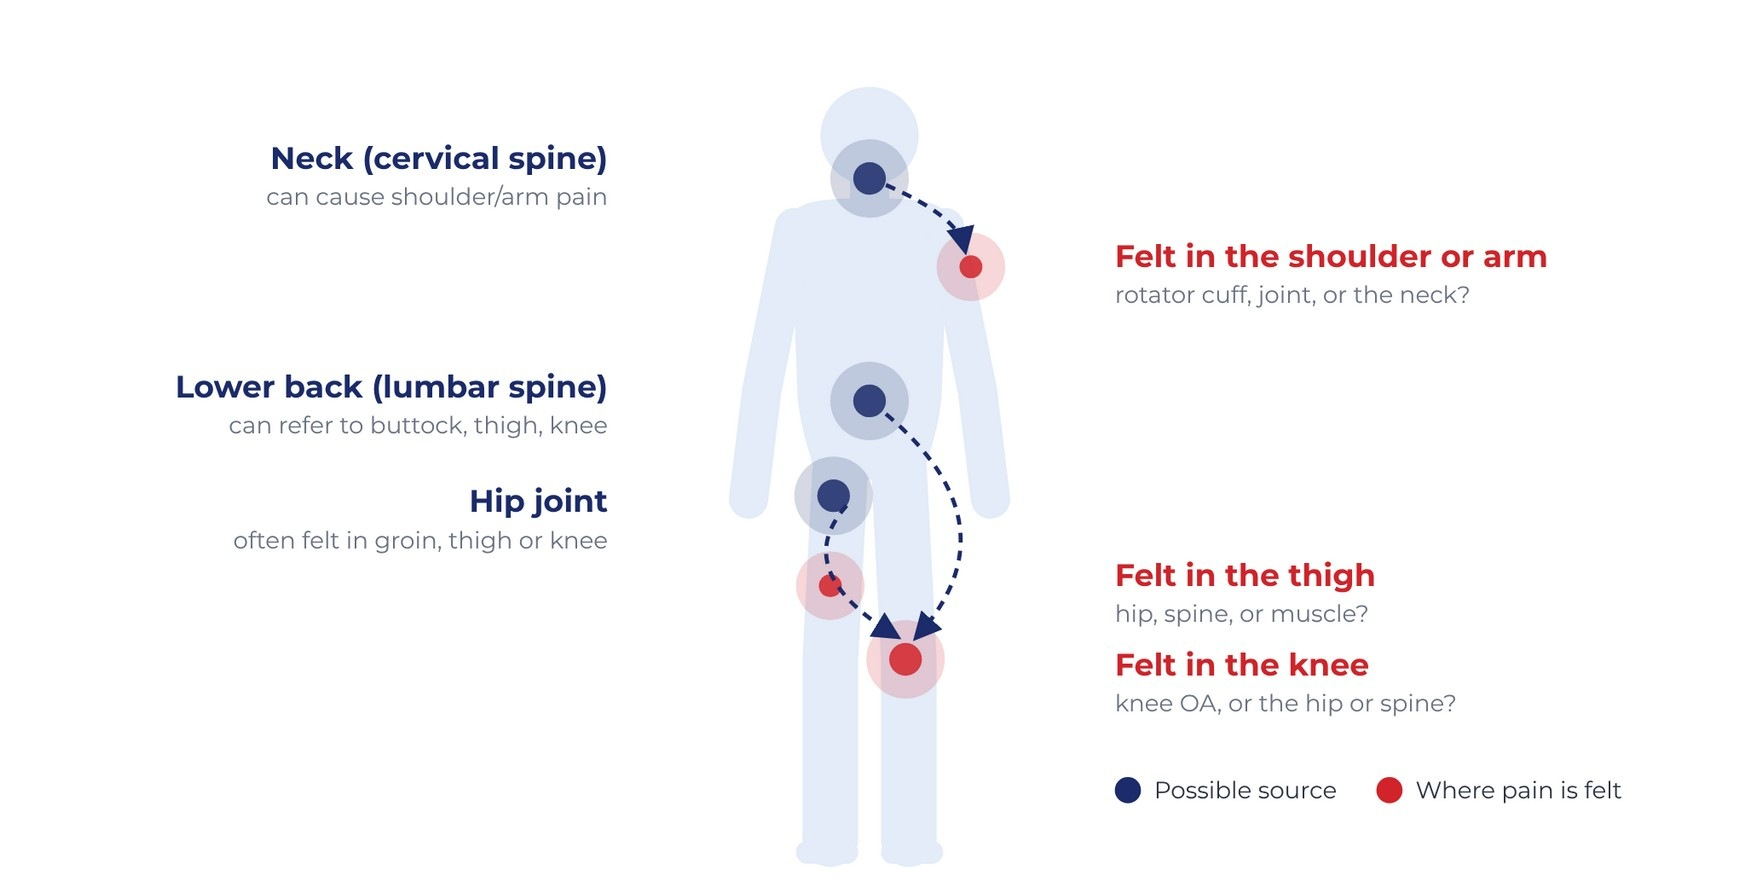
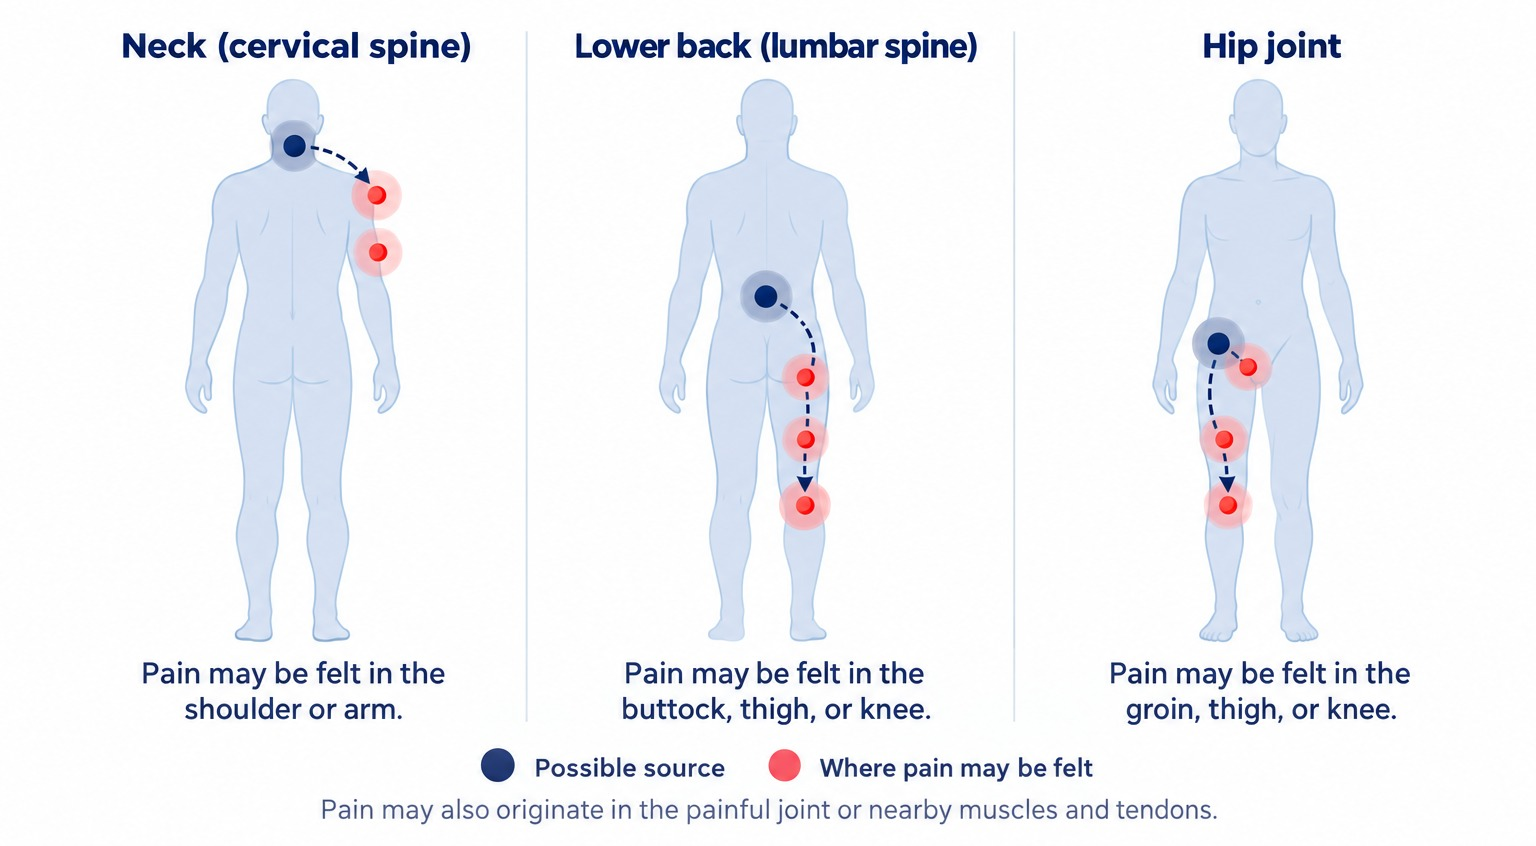
Flip J05a: new referred-pain illustration
Claude-Session: https://claude.ai/code/session_011FeJdRfmDCgTZcMtNMgwbg

Changed region(s): [[0.2188, 0.0307, 0.9375, 0.9835], [0.0625, 0.0307, 0.375, 0.8605]]

diff --git a/js/templates.js b/js/templates.js
@@ -667,7 +667,7 @@ window.AJPVC_TEMPLATES = [
     "label": "J05a · Where Pain Starts Isn’t Always Where It Hurts (patient side)",
     "w": 1056,
     "h": 816,
-    "html": "<div style=\"width: 1056px; height: 816px; box-sizing: border-box; background: #FFFEFB; color: #1B2440; font-family: 'Public Sans', sans-serif; display: flex; flex-direction: column; padding: 34px 44px 26px; gap: 20px\">\n<div style=\"display: flex; justify-content: space-between; align-items: flex-end; gap: 24px; border-bottom: 5px solid #C8231E; padding-bottom: 14px\">\n<div style=\"display: flex; flex-direction: column; gap: 4px\"><p style=\"margin: 0; font-family: 'Montserrat', sans-serif; font-weight: 700; font-size: 15px; letter-spacing: 3px; text-transform: uppercase; color: #C8231E\">Joint pain</p>\n<h1 style=\"margin: 0; font-family: 'Montserrat', sans-serif; font-weight: 800; font-size: 44px; line-height: 1.05; color: #16306E\">Where Pain Starts Isn’t Always Where It Hurts</h1></div>\n<div style=\"display: flex; align-items: center; gap: 14px\"><img src=\"assets/logo-hvlc.png\" alt=\"Heart Vascular &amp; Leg Center logo\" style=\"height: 34px; width: 78px; object-fit: contain; object-position: left center\"><span style=\"width: 1px; height: 27px; background: #E2DED4\"></span><img src=\"assets/logo-long-nodivision.png\" alt=\"Advanced Joint Pain &amp; Vascular Center logo\" style=\"height: 34px; width: 129px; object-fit: contain; object-position: left center\"></div></div>\n<main style=\"flex: 1; min-height: 0; display: flex; flex-direction: column; gap: 16px\"><div style=\"flex: 1; min-height: 0; display: flex; flex-direction: column; gap: 10px\"><div style=\"flex: 1; min-height: 0; min-width: 0; background: #FFFFFF; border-radius: 18px; overflow: hidden; display: flex\"><img src=\"assets/book-referred.jpg\" alt=\"Body outline showing pain that starts in the neck, lower back or hip and is felt in the shoulder, thigh or knee\" style=\"width: 100%; height: 100%; object-fit: contain; object-position: 50% 50%; display: block\"></div></div><div style=\"display: flex; gap: 24px\"><div style=\"flex: 1; min-width: 0; display: flex; gap: 12px; align-items: flex-start; border-top: 4px solid #C8231E; padding-top: 12px\"><p style=\"margin: 0; font-size: 22px; line-height: 1.32; color: #1B2440\">Hip or back problems can cause pain felt in the knee.</p></div><div style=\"flex: 1; min-width: 0; display: flex; gap: 12px; align-items: flex-start; border-top: 4px solid #C8231E; padding-top: 12px\"><p style=\"margin: 0; font-size: 22px; line-height: 1.32; color: #1B2440\">Finding the true source helps pick the right treatment.</p></div><div style=\"flex: 1; min-width: 0; display: flex; gap: 12px; align-items: flex-start; border-top: 4px solid #C8231E; padding-top: 12px\"><p style=\"margin: 0; font-size: 22px; line-height: 1.32; color: #1B2440\">Tell us about numbness, tingling, or pain in other areas.</p></div></div></main></div>"
+    "html": "<div style=\"width: 1056px; height: 816px; box-sizing: border-box; background: #FFFEFB; color: #1B2440; font-family: 'Public Sans', sans-serif; display: flex; flex-direction: column; padding: 34px 44px 26px; gap: 20px\">\n<div style=\"display: flex; justify-content: space-between; align-items: flex-end; gap: 24px; border-bottom: 5px solid #C8231E; padding-bottom: 14px\">\n<div style=\"display: flex; flex-direction: column; gap: 4px\"><p style=\"margin: 0; font-family: 'Montserrat', sans-serif; font-weight: 700; font-size: 15px; letter-spacing: 3px; text-transform: uppercase; color: #C8231E\">Joint pain</p>\n<h1 style=\"margin: 0; font-family: 'Montserrat', sans-serif; font-weight: 800; font-size: 44px; line-height: 1.05; color: #16306E\">Where Pain Starts Isn’t Always Where It Hurts</h1></div>\n<div style=\"display: flex; align-items: center; gap: 14px\"><img src=\"assets/logo-hvlc.png\" alt=\"Heart Vascular &amp; Leg Center logo\" style=\"height: 34px; width: 78px; object-fit: contain; object-position: left center\"><span style=\"width: 1px; height: 27px; background: #E2DED4\"></span><img src=\"assets/logo-long-nodivision.png\" alt=\"Advanced Joint Pain &amp; Vascular Center logo\" style=\"height: 34px; width: 129px; object-fit: contain; object-position: left center\"></div></div>\n<main style=\"flex: 1; min-height: 0; display: flex; flex-direction: column; gap: 16px\"><div style=\"flex: 1; min-height: 0; display: flex; flex-direction: column; gap: 10px\"><div style=\"flex: 1; min-height: 0; min-width: 0; background: #FFFFFF; border-radius: 18px; overflow: hidden; display: flex\"><img src=\"assets/book-referred.jpg\" alt=\"Three body outlines showing pain that starts in the neck and is felt in the shoulder or arm, starts in the lower back and is felt in the buttock, thigh or knee, and starts in the hip and is felt in the groin, thigh or knee\" style=\"width: 100%; height: 100%; object-fit: contain; object-position: 50% 50%; display: block\"></div></div><div style=\"display: flex; gap: 24px\"><div style=\"flex: 1; min-width: 0; display: flex; gap: 12px; align-items: flex-start; border-top: 4px solid #C8231E; padding-top: 12px\"><p style=\"margin: 0; font-size: 22px; line-height: 1.32; color: #1B2440\">Hip or back problems can cause pain felt in the knee.</p></div><div style=\"flex: 1; min-width: 0; display: flex; gap: 12px; align-items: flex-start; border-top: 4px solid #C8231E; padding-top: 12px\"><p style=\"margin: 0; font-size: 22px; line-height: 1.32; color: #1B2440\">Finding the true source helps pick the right treatment.</p></div><div style=\"flex: 1; min-width: 0; display: flex; gap: 12px; align-items: flex-start; border-top: 4px solid #C8231E; padding-top: 12px\"><p style=\"margin: 0; font-size: 22px; line-height: 1.32; color: #1B2440\">Tell us about numbness, tingling, or pain in other areas.</p></div></div></main></div>"
    },
    {
     "label": "J05b · Where Pain Starts Isn’t Always Where It Hurts (provider side)",

diff --git a/source/FlipJ05Referred.dc.html b/source/FlipJ05Referred.dc.html
@@ -18,7 +18,7 @@ body{margin:0}
 <div style="display: flex; flex-direction: column; gap: 4px"><p style="margin: 0; font-family: 'Montserrat', sans-serif; font-weight: 700; font-size: 15px; letter-spacing: 3px; text-transform: uppercase; color: #C8231E">Joint pain</p>
 <h1 style="margin: 0; font-family: 'Montserrat', sans-serif; font-weight: 800; font-size: 44px; line-height: 1.05; color: #16306E">Where Pain Starts Isn’t Always Where It Hurts</h1></div>
 <div style="display: flex; align-items: center; gap: 14px"><img src="/_blob/1e4ce51a5c3cb793b6317890e43e495e" alt="Heart Vascular &amp; Leg Center logo" style="height: 34px; width: 78px; object-fit: contain; object-position: left center"><span style="width: 1px; height: 27px; background: #E2DED4"></span><img src="/_blob/48c0202744b17fe1f033a36586de7a92" alt="Advanced Joint Pain &amp; Vascular Center logo" style="height: 34px; width: 129px; object-fit: contain; object-position: left center"></div></div>
-<main style="flex: 1; min-height: 0; display: flex; flex-direction: column; gap: 16px"><div style="flex: 1; min-height: 0; display: flex; flex-direction: column; gap: 10px"><div style="flex: 1; min-height: 0; min-width: 0; background: #FFFFFF; border-radius: 18px; overflow: hidden; display: flex"><img src="/_blob/ad2c2735b71d917b6ae5cc0d8fa22ba3" alt="Body outline showing pain that starts in the neck, lower back or hip and is felt in the shoulder, thigh or knee" style="width: 100%; height: 100%; object-fit: contain; object-position: 50% 50%; display: block"></div></div><div style="display: flex; gap: 24px"><div style="flex: 1; min-width: 0; display: flex; gap: 12px; align-items: flex-start; border-top: 4px solid #C8231E; padding-top: 12px"><p style="margin: 0; font-size: 22px; line-height: 1.32; color: #1B2440">Hip or back problems can cause pain felt in the knee.</p></div><div style="flex: 1; min-width: 0; display: flex; gap: 12px; align-items: flex-start; border-top: 4px solid #C8231E; padding-top: 12px"><p style="margin: 0; font-size: 22px; line-height: 1.32; color: #1B2440">Finding the true source helps pick the right treatment.</p></div><div style="flex: 1; min-width: 0; display: flex; gap: 12px; align-items: flex-start; border-top: 4px solid #C8231E; padding-top: 12px"><p style="margin: 0; font-size: 22px; line-height: 1.32; color: #1B2440">Tell us about numbness, tingling, or pain in other areas.</p></div></div></main></div>
+<main style="flex: 1; min-height: 0; display: flex; flex-direction: column; gap: 16px"><div style="flex: 1; min-height: 0; display: flex; flex-direction: column; gap: 10px"><div style="flex: 1; min-height: 0; min-width: 0; background: #FFFFFF; border-radius: 18px; overflow: hidden; display: flex"><img src="/_blob/d454a76d4cf93f7fc40e7a0d2760cd78" alt="Three body outlines showing pain that starts in the neck and is felt in the shoulder or arm, starts in the lower back and is felt in the buttock, thigh or knee, and starts in the hip and is felt in the groin, thigh or knee" style="width: 100%; height: 100%; object-fit: contain; object-position: 50% 50%; display: block"></div></div><div style="display: flex; gap: 24px"><div style="flex: 1; min-width: 0; display: flex; gap: 12px; align-items: flex-start; border-top: 4px solid #C8231E; padding-top: 12px"><p style="margin: 0; font-size: 22px; line-height: 1.32; color: #1B2440">Hip or back problems can cause pain felt in the knee.</p></div><div style="flex: 1; min-width: 0; display: flex; gap: 12px; align-items: flex-start; border-top: 4px solid #C8231E; padding-top: 12px"><p style="margin: 0; font-size: 22px; line-height: 1.32; color: #1B2440">Finding the true source helps pick the right treatment.</p></div><div style="flex: 1; min-width: 0; display: flex; gap: 12px; align-items: flex-start; border-top: 4px solid #C8231E; padding-top: 12px"><p style="margin: 0; font-size: 22px; line-height: 1.32; color: #1B2440">Tell us about numbness, tingling, or pain in other areas.</p></div></div></main></div>
 </x-dc>
 <script type="text/x-dc" data-dc-script data-props='{"$preview":{"width":1056,"height":816}}'>
 class Component extends DCLogic {
